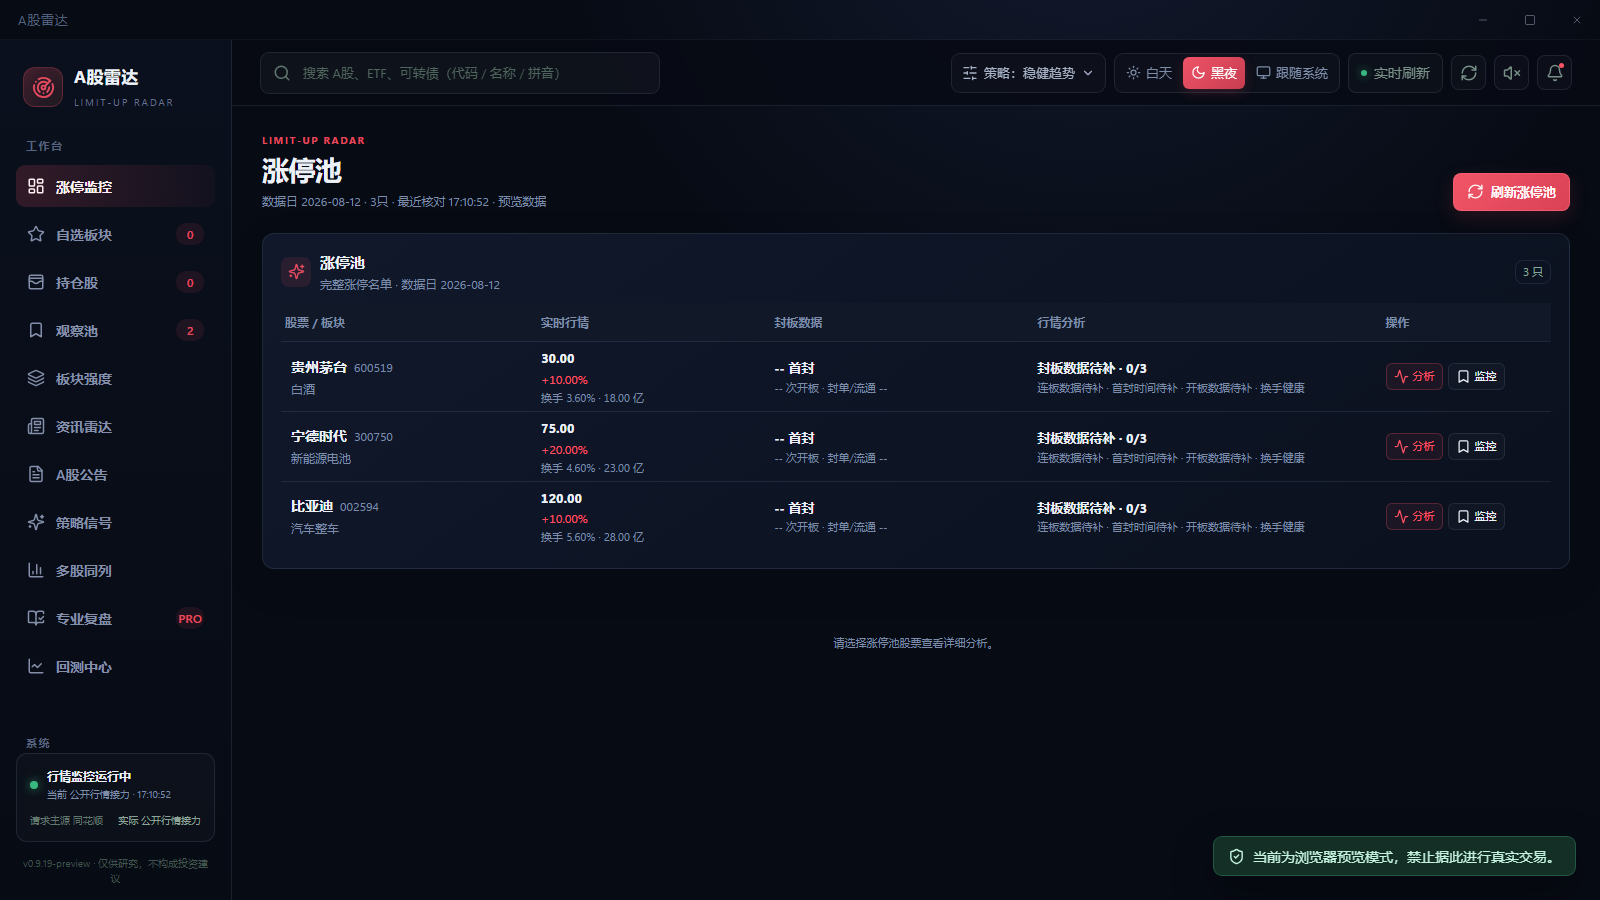
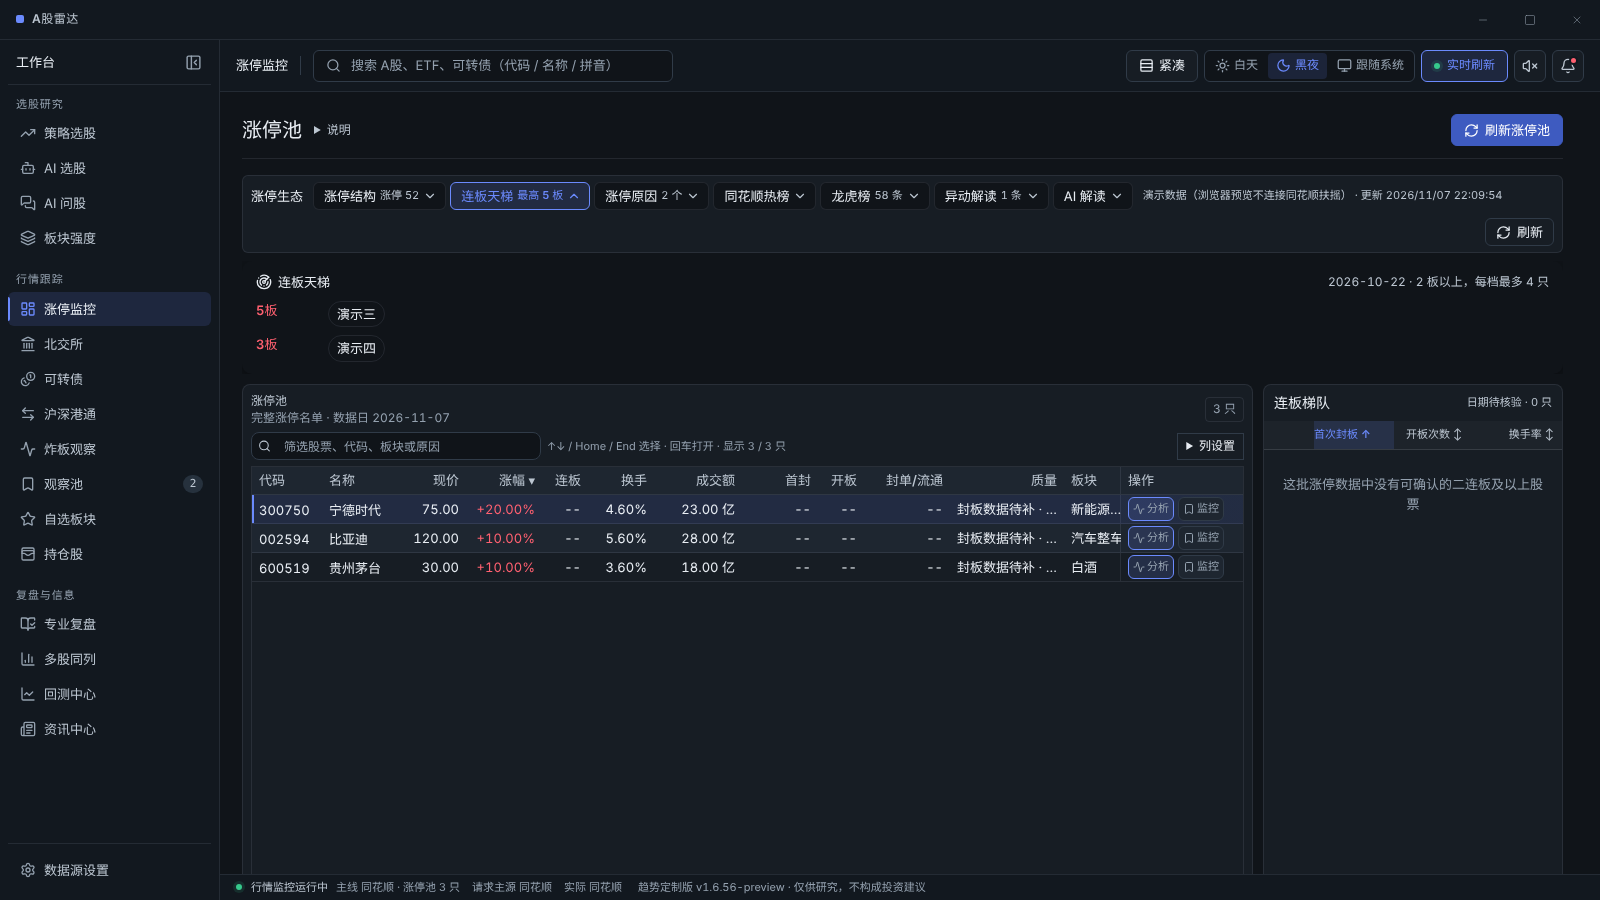
docs: 更新 README 截图为 v1.6.56 界面

diff --git a/README.md b/README.md
@@ -38,12 +38,15 @@ K 线与研究视图：
 
 ## 截图
 
-> 截图使用项目内置预览数据，仅用于展示界面，不代表实时行情或策略收益。
+> 截图使用项目内置预览数据（AI 问股的回答也是演示文字），仅用于展示界面，不代表实时行情、模型输出或策略收益。
 
-| 市场工作台 | 多策略单股回测 |
+| 涨停监控 | 策略选股 |
 | :---: | :---: |
-| ![A股雷达市场工作台](docs/images/dashboard.png) | ![A股雷达回测中心](docs/images/backtest-center.png) |
-| 涨停生态、个股结构与多源状态 | 多策略投票、单股、日期与自定义买入价 |
+| ![A股雷达涨停监控](docs/images/dashboard.png) | ![A股雷达策略选股](docs/images/strategy-selection.png) |
+| 涨停生态、连板天梯与完整涨停池 | 策略库、命中个股、日 K 走势与入选依据 |
+| **AI 问股** | **板块强度** |
+| ![A股雷达AI问股](docs/images/ai-agent.png) | ![A股雷达板块强度](docs/images/sector-strength.png) |
+| 对话分析个股，按所选打法逐条对照并给出结论 | 行业 / 概念排行、今日涨停主线与成分股 |
 
 ## 策略选股
 
